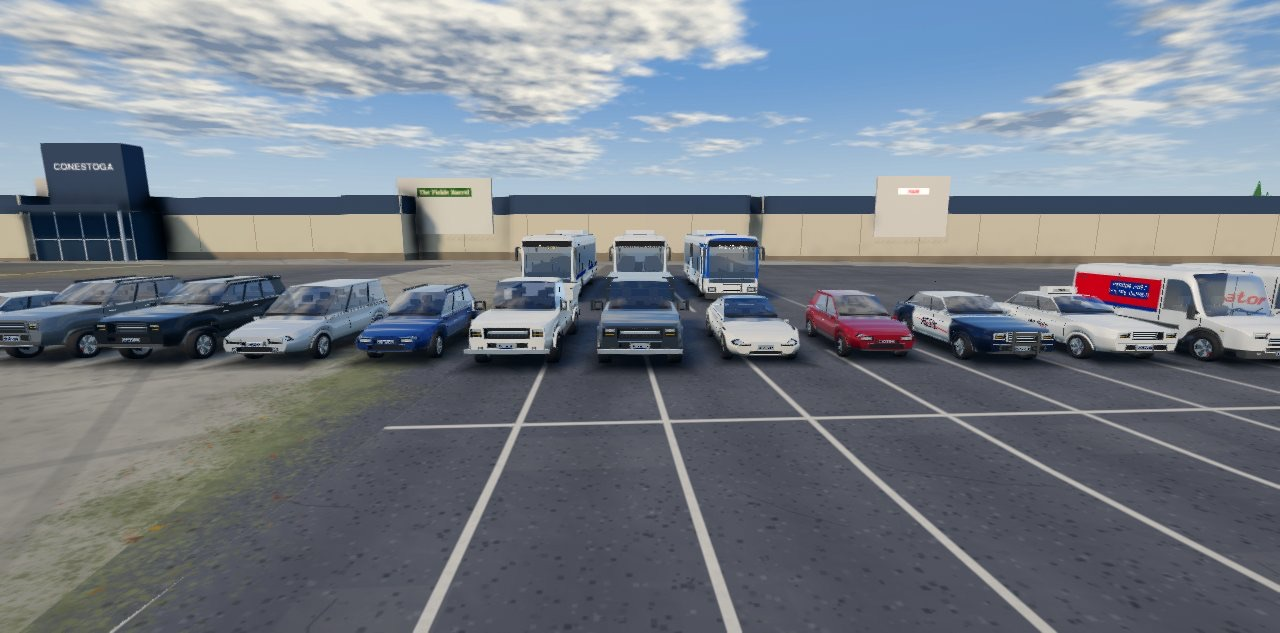
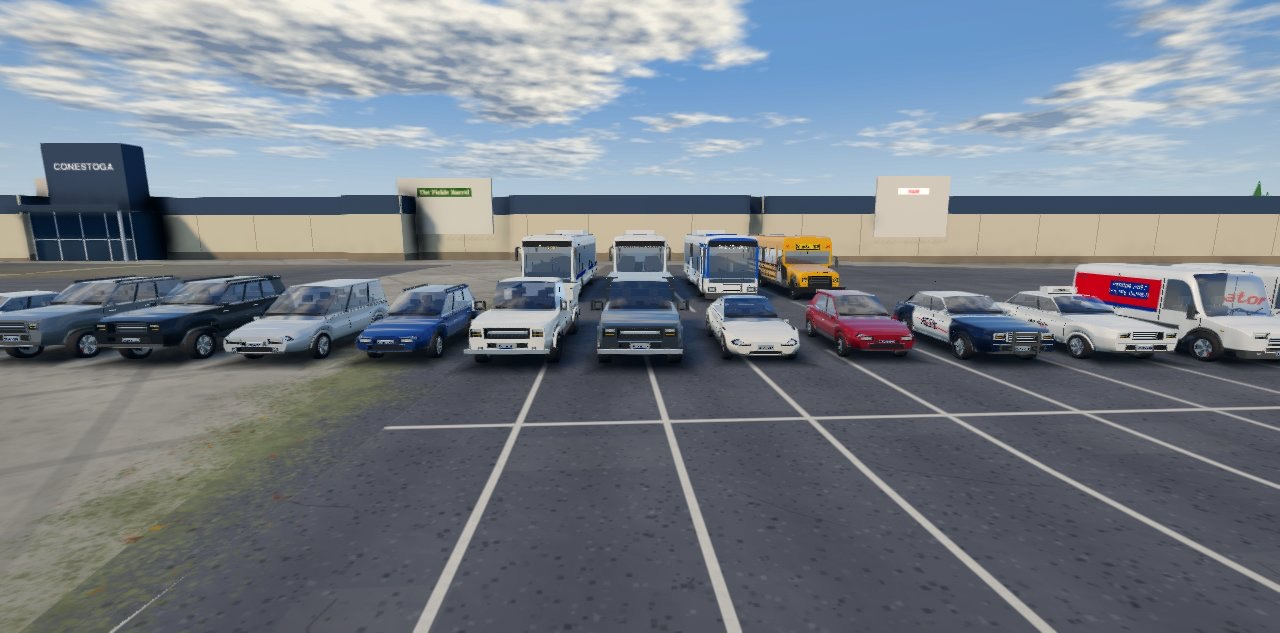
Auto KW: the yellow school bus
A Type C conventional (buildSchoolBus): chrome yellow, a narrow bonnet in
front of the long square body, black rub rails, a row of small windows,
SCHOOL BUS and the red and amber warning lamps over the screen and the back
door, the stop arm folded on the driver's side, the door behind the front
wheel, STUDENT TRANSPORTATION on the sides. One CIVILIAN slot, never parked
(spec.bus). It joins the car show at Conestoga Mall.

Changed region(s): [[0.5938, 0.3602, 0.6562, 0.4803]]

diff --git a/apps/autokw/src/vehicles.js b/apps/autokw/src/vehicles.js
@@ -380,6 +380,8 @@ export const TYPES = {
   // type's geometry is shared -- Route 7 King, an iXpress, and the ION Bus.
   bus: deriveSpec({ wheelbase: 6.0,len: 12.0, wid: 2.55, wheelR: 0.50, sill: 0.50, belt: 1.30, roof: 3.10, cab: [-0.48, 0.48], hand: 'bus', livery: GRT_WHITE, grt: { sign: '7 King', led: 'amber', fleet: '21714' }, bus: true, boxy: 3, mass: 4.5, acc: 1.4, topKph: 95, brakeM: 52, latG: 0.62 }),
   busx: deriveSpec({ wheelbase: 6.0,len: 12.0, wid: 2.55, wheelR: 0.50, sill: 0.50, belt: 1.30, roof: 3.10, cab: [-0.48, 0.48], hand: 'bus', livery: GRT_WHITE, grt: { sign: '202 iXpress University', fleet: '22015' }, bus: true, boxy: 3, mass: 4.5, acc: 1.4, topKph: 95, brakeM: 52, latG: 0.62 }),
+  // Auto KW: the yellow school bus (buildSchoolBus)
+  schoolbus: deriveSpec({ wheelbase: 6.1, len: 10.9, wid: 2.44, wheelR: 0.50, sill: 0.62, belt: 1.55, roof: 3.05, cab: [-0.48, 0.48], hand: 'schoolbus', livery: 0xf2a900, bus: true, diesel: true, boxy: 3, mass: 4.2, acc: 1.5, topKph: 100, brakeM: 52, latG: 0.62 }),
   ionbus: deriveSpec({ wheelbase: 6.0,len: 12.0, wid: 2.55, wheelR: 0.50, sill: 0.50, belt: 1.30, roof: 3.10, cab: [-0.48, 0.48], hand: 'bus', livery: GRT_WHITE, grt: { sign: '302 ION Bus', fleet: '21759', ion: true }, finish: 'twotone', paintVC: true, bus: true, boxy: 3, mass: 4.5, acc: 1.4, topKph: 95, brakeM: 52, latG: 0.62 }),
   boxtruck: deriveSpec({ wheelbase: 4.3,len: 7.5, wid: 2.38, wheelR: 0.46, sill: 0.62, belt: 1.55, roof: 2.55, cab: [0.14, 0.46], cargo: 2.55, hand: 'boxtruck', boxy: 2, mass: 3.0, acc: 2.5, topKph: 125, brakeM: 51, latG: 0.66 }),
   ambulance: deriveSpec({ wheelbase: 3.9,len: 6.3, wid: 2.28, wheelR: 0.42, sill: 0.56, belt: 1.42, roof: 2.35, cab: [0.16, 0.46], cargo: 2.25, hand: 'ambulance', livery: 0xf4f4f0, boxy: 2, emergency: true, mass: 2.4, acc: 3.2, topKph: 155, brakeM: 48, latG: 0.72 }),
@@ -482,7 +484,7 @@ export const CIVILIAN_TYPES = [
   ...Array(3).fill('ev'),
   ...Array(2).fill('van'), 'postvan', 'purovan',
   'muscle', 'sports', 'convertible', 'cruiser', 'sportbike',
-  'taxi', 'bus', 'busx', 'artic', 'boxtruck', 'garbage',
+  'taxi', 'bus', 'busx', 'artic', 'schoolbus', 'boxtruck', 'garbage',
 ];
 
 // Auto KW: the colours of a Canadian car park (North American popularity
@@ -7231,6 +7233,137 @@ function buildTruck(spec, paint, trim, matte, S) {
 function geom0(shell, z) { return shell.sec(z).w0; }
 
 /**
+ * Auto KW: the yellow SCHOOL BUS -- a Type C conventional (Blue Bird / Thomas /
+ * IC), as Student Transportation runs them for Waterloo Region's boards: a
+ * narrow bonnet in front of a long square body, chrome-yellow all over, black
+ * rub rails, a row of small windows, SCHOOL BUS over the screen and the back
+ * door between the red and amber warning lamps, the stop arm folded on the
+ * driver's side, the door on the kerb side just behind the front wheel.
+ */
+const BUS_BLACK = [0.035, 0.035, 0.04];
+function buildSchoolBus(spec, paint, trim, matte) {
+  const wr = spec.wheelR, W = spec.wid / 2, roofY = spec.roof;
+  const nose = spec.len / 2, tail = -spec.len / 2;
+  const zF = nose - 1.0, zR = zF - spec.wheelbase, zW = nose - 2.05;   // zW: the body's front (the screen)
+  const archR = wr + 0.16, archTop = wr * 2 + 0.08, floor = 0.66;
+  const liftR = archCut([zR], archR, archTop, 3.0);
+  const winB = 1.58, winT = 2.36, DOOR = [zW - 0.92, zW - 0.12];
+  const spans = (sx) => {
+    const out = [];
+    let z = tail + 0.95;
+    const end = zW - (sx < 0 ? 0.98 : 0.30);
+    while (z + 0.62 <= end) { out.push([z, z + 0.62]); z += 0.74; }
+    return out;
+  };
+  const windows = [];
+  for (const sx of [-1, 1]) for (const [a, b] of spans(sx)) windows.push({ sx, zA: a, zB: b, yBot: winB, yTopMax: winT, cols: 1 });
+  windows.push({ sx: -1, zA: DOOR[0], zB: DOOR[1], yBot: floor + 0.08, yTopMax: winT, cols: 1 });
+  const body = boxShell(paint, {
+    z0: tail, z1: zW, stations: 30, rr: 0.20, tumble: 0.03, crown: 0.05,
+    wAt: () => W, y0At: (z) => Math.max(floor, liftR(z)),
+    y1At: curve([[tail, roofY - 0.08], [tail + 0.3, roofY], [zW - 0.3, roofY], [zW, roofY - 0.08]]),
+    windows,
+  });
+  shellArch(matte, body, zR, wr, archR, archTop, floor);
+  // the bonnet: narrower, sloping to the grille
+  const { shell: hood } = truckCab(paint, matte, {
+    z0: zW - 0.02, z1: nose, W: 0.98, roofY: 1.62, zF, wr, archR, sill: floor,
+    bonnet: { scrTopZ: zW - 0.005, cowlZ: zW + 0.06, cowlY: 1.60, noseY: 1.38 },
+  });
+  const hs = hood.sec(nose);
+  // --- the front of the body: the screen, SCHOOL BUS, the warning lamps --------
+  const bs = body.sec(zW), fw = bs.w0 - 0.10, scrB = 1.66, scrT = 2.34;
+  endFace(paint, zW, 1, body.prof(zW), [[0, (scrB + scrT) / 2, fw, (scrT - scrB) / 2]], WHITE);
+  trim.patch([[[-fw, scrB, zW + 0.006], [0, scrB, zW + 0.006], [fw, scrB, zW + 0.006]],
+    [[-fw, scrT, zW + 0.006], [0, scrT, zW + 0.006], [fw, scrT, zW + 0.006]]], GLASS, [0, 0, 1]);
+  matte.box(0, scrB - 0.01, zW + 0.004, 0.012, scrT - scrB + 0.02, 0.02, 0, BUS_BLACK);       // centre post
+  matte.box(0, scrT + 0.05, zW + 0.006, 1.20, 0.30, 0.02, 0, BUS_BLACK);                        // sign surround
+  matte.box(0, scrT + 0.07, zW + 0.012, 1.12, 0.26, 0.02, 0, [0.95, 0.66, 0.05]);
+  dotText(matte, 'SCHOOL BUS', { c: [0, scrT + 0.20, zW + 0.024], u: [1, 0, 0], h: 0.15, col: BUS_BLACK, bold: 0.5 });
+  for (const sx of [-1, 1]) {
+    trim.tube([sx * (W - 0.20), scrT + 0.20, zW], [sx * (W - 0.20), scrT + 0.20, zW + 0.06], 0.085, 12, [1.0, 0.10, 0.06], true);
+    trim.tube([sx * (W - 0.44), scrT + 0.20, zW], [sx * (W - 0.44), scrT + 0.20, zW + 0.06], 0.075, 12, AMBER, true);
+  }
+  // the bonnet's face: black grille, round lamps, the bumper
+  const GR = [0, 0.98, hs.w0 * 0.62, 0.26], LA = [hs.w0 * 0.80, 1.06, 0.10, 0.10];
+  endFace(paint, nose, 1, hood.prof(nose), [GR, LA], WHITE);
+  const gp = pocket(paint, matte, 0, GR[1], nose, GR[2], GR[3], 0.10, 1, { rim: 0.03, rimCol: BUS_BLACK });
+  for (let i = 0; i < 6; i++) matte.box(0, GR[1] - GR[3] + 0.05 + i * 0.08, gp.z + 0.02, gp.hw * 1.9, 0.025, 0.04, 0, [0.10, 0.10, 0.11]);
+  for (const sx of [-1, 1]) {
+    pocket(paint, matte, sx * LA[0], LA[1], nose, LA[2], LA[3], 0.06, 1, { rim: 0.02, rimCol: BUS_BLACK });
+    trim.tube([sx * LA[0], LA[1], nose - 0.02], [sx * LA[0], LA[1], nose + 0.012], 0.075, 12, LAMP, true);
+    trim.box(sx * (LA[0] - 0.02), 0.82, nose - 0.01, 0.12, 0.06, 0.03, 0, AMBER);
+  }
+  matte.box(0, 0.48, nose + 0.06, W * 1.96, 0.24, 0.16, 0, BUS_BLACK);                          // bumper
+  plateBox(trim, 0, 0.52, nose + 0.145, 0.40, 0.12, 0.02);
+  matte.box(0, 1.385, nose - 0.75, 0.05, 0.03, 1.2, 0, BUS_BLACK);                               // the bonnet's centre seam
+  // --- the cabin, seen through the windows --------------------------------------
+  const x = W - 0.07, y = floor + 0.20;
+  matte.quad([-x, y, tail + 0.2], [x, y, tail + 0.2], [x, y, zW - 0.1], [-x, y, zW - 0.1], [0, 1, 0], [0, 0, 1, 0, 1, 1, 0, 1], CAB_FLOOR);
+  matte.quad([-x, roofY - 0.12, tail + 0.2], [x, roofY - 0.12, tail + 0.2], [x, roofY - 0.12, zW - 0.1], [-x, roofY - 0.12, zW - 0.1], [0, -1, 0], [0, 0, 1, 0, 1, 1, 0, 1], CAB_ROOF);
+  matte.box(0, y, zW - 0.30, x * 1.9, 0.75, 0.36, 0, CAB_DASH);
+  const sit = y + 0.42, Hs = 0.70;
+  for (let z = zW - 1.30; z > tail + 0.9; z -= 0.78) {
+    for (const sx of [-1, 1]) rakedBox(matte, sx * (x - 0.42), y - 0.02, z, 0.80, sit - y + 0.55 * Hs, 0.09, 0.06, [0.32, 0.12, 0.06]);   // the green-brown vinyl benches
+  }
+  const wheel = [0.55, sit + 0.05, zW - 0.45];
+  rakedBox(matte, 0.55, y - 0.02, zW - 1.0, 0.50, sit - y + 0.55 * Hs, 0.12, 0.05, CAB_SEAT);
+  wheelRim(matte, wheel[0], wheel[1], wheel[2], 0.24);
+  if (matte.crew) occupant(matte.crew, 0.55, sit, zW - 1.0, Hs, wheel);
+  // --- the sides: glass, rub rails, the door, the stop arm, the lettering --------
+  for (const sx of [-1, 1]) {
+    const run = spans(sx);
+    for (const [a, b] of run) sideGlass(trim, body, sx, a, b, winB, winT, 0.007, 1);
+    // black seals under and over the row of windows (the posts between are the body's yellow)
+    const r0 = run[0][0] - 0.06, r1 = run[run.length - 1][1] + 0.06;
+    for (const yy of [winB - 0.035, winT + 0.005]) matte.box(sx * (W + 0.006), yy, (r0 + r1) / 2, 0.01, 0.03, r1 - r0, 0, BUS_BLACK);
+    for (const yy of [0.86, 1.18, 1.46]) matte.box(sx * (W + 0.010), yy, (tail + zW) / 2 + (sx < 0 ? -0.5 : 0), 0.02, 0.07, zW - tail - (sx < 0 ? 1.2 : 0.2), 0, BUS_BLACK);
+    matte.box(sx * (W + 0.010), floor, (tail + zW) / 2, 0.02, 0.06, zW - tail - 0.1, 0, BUS_BLACK);
+    dotText(matte, 'STUDENT TRANSPORTATION', { c: [sx * (W + 0.025), 1.32, (tail + zW) / 2 - 0.4], u: [0, 0, -sx], h: 0.10, col: BUS_BLACK, bold: 0.4 });
+    trim.box(sx * (hood.sec(zW + 0.5).w0 + 0.01), 1.10, zW + 0.5, 0.02, 0.04, 0.08, 0, AMBER);
+    truckMirror(trim, matte, sx, W - 0.06, 2.10, zW + 0.05);
+  }
+  // the kerb-side door: two glass leaves to the step
+  const dw = W + 0.008;
+  trim.patch([[[-dw, floor + 0.08, DOOR[0]], [-dw, floor + 0.08, DOOR[1]]], [[-dw, winT, DOOR[0]], [-dw, winT, DOOR[1]]]], GLASS, [-1, 0, 0]);
+  for (const zc of [DOOR[0], (DOOR[0] + DOOR[1]) / 2, DOOR[1]]) matte.box(-(dw + 0.004), floor + 0.06, zc, 0.012, winT - floor - 0.04, 0.05, 0, BUS_BLACK);
+  // the stop arm on the driver's side, folded flat: a red octagon reading STOP
+  {
+    const sx = 1, px = W + 0.035, cy = 1.82, cz = zW - 0.55, r = 0.23, oct = [];
+    for (let i = 0; i < 8; i++) { const a = Math.PI / 8 + (i * Math.PI) / 4; oct.push([Math.cos(a) * r, Math.sin(a) * r]); }
+    for (let i = 0; i < 8; i++) {
+      const [a0, b0] = oct[i], [a1, b1] = oct[(i + 1) % 8];
+      trim.tri([px, cy, cz], [px, cy + b0, cz + a0], [px, cy + b1, cz + a1], [sx, 0, 0], [0.80, 0.04, 0.03]);
+    }
+    dotText(matte, 'STOP', { c: [px + 0.004, cy, cz], u: [0, 0, -1], h: 0.09, col: [0.95, 0.95, 0.95], bold: 0.5 });
+    matte.box(px - 0.02, cy - 0.04, cz + 0.30, 0.03, 0.08, 0.14, 0, BUS_BLACK);    // its hinge box
+  }
+  // --- the back: the emergency door, SCHOOL BUS, lamps --------------------------
+  const RW = [0, 1.98, 0.42, 0.34], TL = [W - 0.16, 1.05, 0.08, 0.10];
+  endFace(paint, tail, -1, body.prof(tail), [RW, TL], WHITE);
+  const wp = pocket(paint, matte, 0, RW[1], tail, RW[2], RW[3], 0.03, -1, { rim: 0.03, rimCol: BUS_BLACK });
+  trim.box(0, RW[1] - wp.hh, tail + 0.012, wp.hw * 2, wp.hh * 2, 0.010, 0, GLASS);
+  // the emergency door's outline: two posts and a head, and its handle
+  const dTop = RW[1] + RW[3] + 0.06;
+  for (const dx of [-0.49, 0.49]) matte.box(dx, floor + 0.04, tail - 0.008, 0.025, dTop - floor - 0.04, 0.012, 0, BUS_BLACK);
+  matte.box(0, dTop - 0.012, tail - 0.008, 1.0, 0.025, 0.012, 0, BUS_BLACK);
+  trim.box(0.30, 1.30, tail - 0.02, 0.18, 0.04, 0.03, 0, CHROME);
+  dotText(matte, 'SCHOOL BUS', { c: [0, roofY - 0.27, tail - 0.012], u: [-1, 0, 0], h: 0.14, col: BUS_BLACK, bold: 0.5 });
+  for (const sx of [-1, 1]) {
+    const tp = pocket(paint, matte, sx * TL[0], TL[1], tail, TL[2], TL[3], 0.04, -1, { rim: 0.016, rimCol: BUS_BLACK });
+    trim.box(sx * TL[0], TL[1] - tp.hh * 0.95, tail + 0.014, tp.hw * 1.9, tp.hh * 1.9, 0.020, 0, TAILC);
+    trim.tube([sx * (W - 0.20), roofY - 0.27, tail], [sx * (W - 0.20), roofY - 0.27, tail - 0.06], 0.085, 12, [1.0, 0.10, 0.06], true);
+    trim.tube([sx * (W - 0.44), roofY - 0.27, tail], [sx * (W - 0.44), roofY - 0.27, tail - 0.06], 0.075, 12, AMBER, true);
+  }
+  matte.box(0, 0.48, tail - 0.06, W * 1.96, 0.24, 0.16, 0, BUS_BLACK);
+  plateBox(trim, 0.55, 0.78, tail - 0.024, 0.40, 0.12, 0.02);
+  // --- chassis, wheels ----------------------------------------------------------
+  matte.box(0, 0.42, (tail + zW) / 2, W * 1.4, 0.24, zW - tail - 0.4, 0, PLASTIC);
+  const twF = 0.30, twR = 0.44, wxF = hood.sec(zF).w0 - 0.17, wxR = W - 0.24;
+  return [[-wxF, wr, zF, wr, twF], [wxF, wr, zF, wr, twF], [-wxR, wr, zR, wr, twR], [wxR, wr, zR, wr, twR]];
+}
+
+/**
  * Type III ambulance: a bonneted van cab with a tall square module behind it.
  * The module is wider and taller than the cab and carries its own arch, a red
  * band and a light at every corner -- the corners are what a player reads at a
@@ -10050,6 +10183,7 @@ const HAND_BUILT = {
   kart: buildKart,
   fireengine: buildFireEngine, tiller: buildTiller, tillerRear: buildTillerRear,
   tractor: buildTractor, combine: buildCombine,
+  schoolbus: buildSchoolBus,
 };
 
 /**

diff --git a/apps/autokw/src/traffic.js b/apps/autokw/src/traffic.js
@@ -21,7 +21,7 @@ const HELLCAT_P = 0.12, HELLCAT_MAX = 3;
 // spawned a car every ~110 m, so this is about one per 10 km driven. It goes
 // when it is left behind, as every car does.
 const WIENER_P = 0.01;
-const HEAVY = new Set(['bus', 'busx', 'ionbus', 'artic', 'boxtruck', 'garbage', 'pickup', 'pickupcap', 'van', 'postvan', 'purovan', 'cruiser', 'sportbike', 'bicycle']);
+const HEAVY = new Set(['bus', 'busx', 'ionbus', 'artic', 'schoolbus', 'boxtruck', 'garbage', 'pickup', 'pickupcap', 'van', 'postvan', 'purovan', 'cruiser', 'sportbike', 'bicycle']);
 // Auto KW: types that never park at a kerb and keep off residential streets
 // (every bus -- `spec.bus` -- and the refuse truck)
 const NO_KERB = (tn) => !!(TYPES[tn] && TYPES[tn].bus) || tn === 'garbage';

diff --git a/apps/autokw/CLAUDE.md b/apps/autokw/CLAUDE.md
@@ -325,7 +325,11 @@ file and a guide disagree, this file wins.
   `buildSmallCar`: the slider track, roof rails, clad arches), `crossover`
   and `compsedan` (`scaledBuild` of the SUV and the sedan at RAV4 / Civic
   size -- y is not scaled, so they keep their parents' heights), `pickupcap`
-  (`spec.cap`: a cab-high cap over the bed), `postvan` and `purovan`
+  (`spec.cap`: a cab-high cap over the bed), `schoolbus` (buildSchoolBus:
+  a Type C conventional, chrome yellow, black rub rails, SCHOOL BUS and the
+  red/amber lamps front and back, the stop arm on the driver's side, the door
+  behind the front wheel, STUDENT TRANSPORTATION on the sides; one CIVILIAN
+  slot, never parked), `postvan` and `purovan`
   (`vanLivery`: Canada Post's red block, blue stripe and CANADA POST /
   POSTES CANADA panel; Purolator's slashes and red italic wordmark).
   **Two-tone paint**: `finish: 'twotone'` (+ `paintVC` for the far LOD)
@@ -347,7 +351,7 @@ file and a guide disagree, this file wins.
   `bus-*`); `VIEW_PROBE_FILE=tools/kw/carprobe.js` reports draws, triangles
   and the type mix after 12 s of play. Phone: 16 vehicles parked in view
   cost +48 draws (3 each) and ~+8.5k triangles each (buses ~12-13k); the
-  spawn frame 196 -> 198 draws, 881k -> 884k tris.
+  spawn frame (CLAUDE.md's 196 draws, 881k tris before) 199 draws, 889k tris.
 
 ## Build number
 
